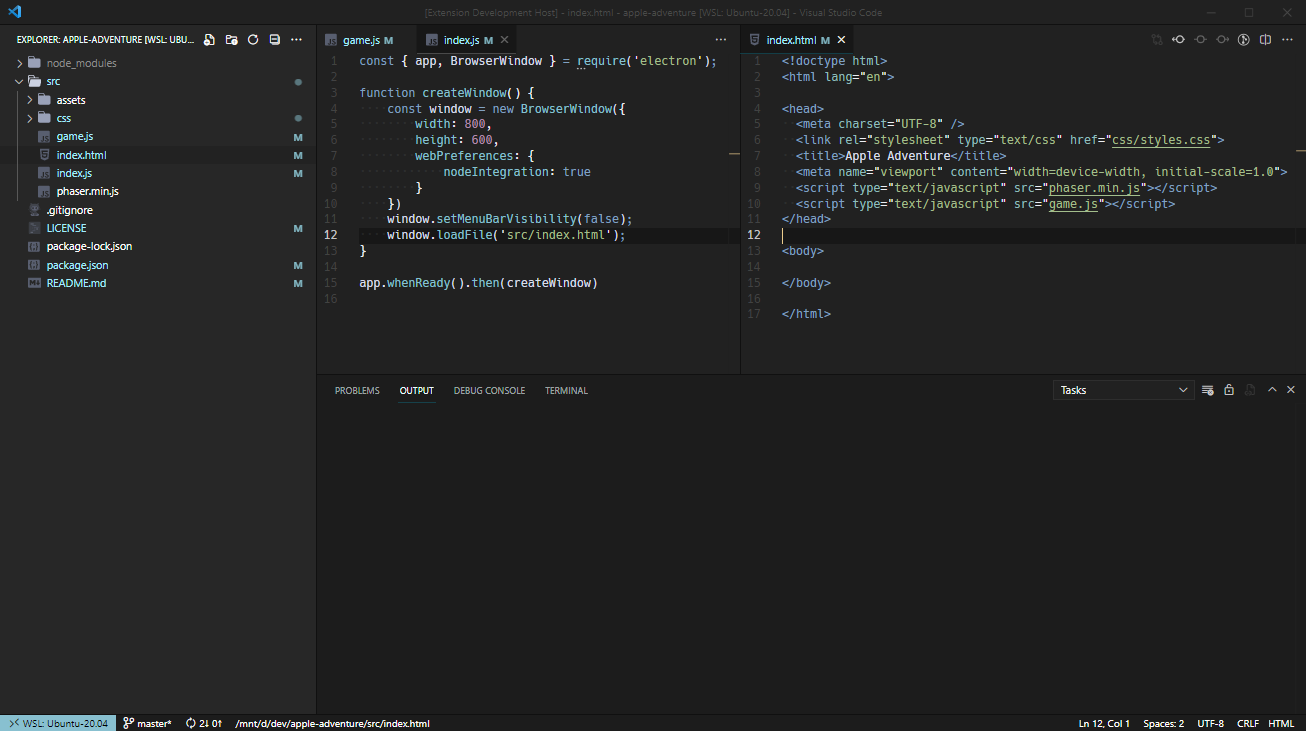
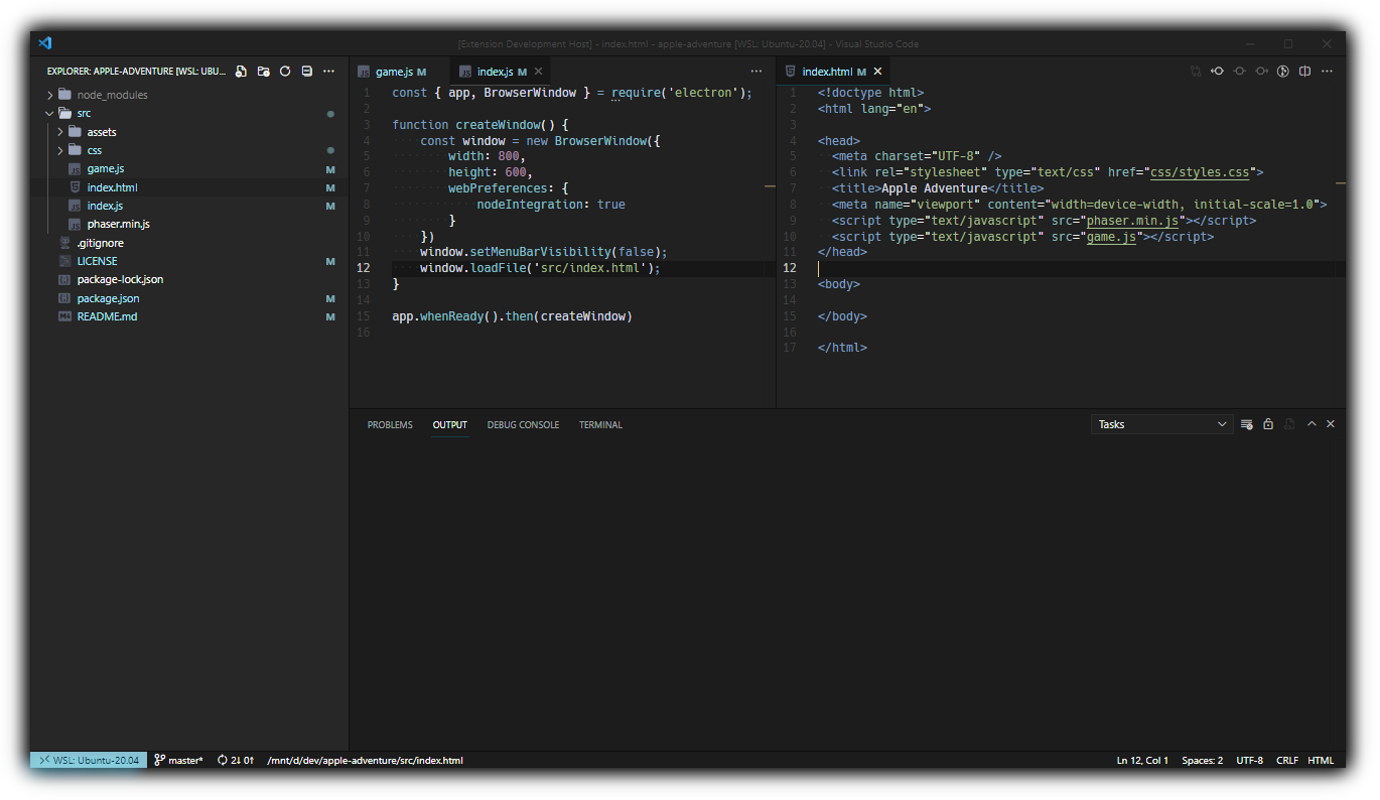
Release 0.2.1 update
Toned down difference editor colors
Toned down change indicator at the start of lines
Added LICENSE
Updated README

diff --git a/README.md b/README.md
@@ -5,27 +5,43 @@
     <div>
     A more contrast version of the <a target='_blank' href='https://marketplace.visualstudio.com/items?itemName=dnlytras.nord-wave'>Nord Wave</a> theme.
     </div>
+    <div>
+    <a><img src="https://vsmarketplacebadge.apphb.com/version-short/simojanhunen.nord-dark-contrast.svg" /></a>
+    <a><img src="https://vsmarketplacebadge.apphb.com/installs/simojanhunen.nord-dark-contrast.svg" /></a>
+    <a><img src="https://img.shields.io/badge/License-MIT-blue.svg"  /></a>
+    </div>
 </div>
 
-### Example
+# Gallery
 ![Screenshot](assets/screenshot.png)
 
-## Recommendations for used settings and extensions
+# Suggestions
 
-Install following extensions
-- [City Lights Icon package (Black & White)](https://marketplace.visualstudio.com/items?itemName=Yummygum.city-lights-icon-vsc) &#8211; A minimal black & white file icon package for minimal distractions.
-- [Fluent Icons](https://marketplace.visualstudio.com/items?itemName=miguelsolorio.fluent-icons)                                &#8211; Minimal product icons in, e.g., activity bar.
-- [Active File In StatusBar](https://marketplace.visualstudio.com/items?itemName=RoscoP.ActiveFileInStatusBar)                  &#8211; A non-distracting position to display active file path.
+### Font
+- [Hack](https://sourcefoundry.org/hack/).
 
-Add following settings to _settings.json_
-- `"workbench.activityBar.visible": false`  &#8211; Hides activity bar.
-- `"window.menuBarVisibility": "toggle"`    &#8211; Makes menu bar visible when the bound key is pressed, by default the `Alt` key.
-  - This setting will not work as intended on Linux distributions without setting `"window.titleBarStyle": "custom"`
-- `"editor.minimap.enabled": false`         &#8211; Hides the file preview from the scroll bar.
-- `"explorer.openEditors.visible": 0`       &#8211; Hides the _OPEN EDITORS_ tab from the Explorer tab.
-- `"editor.glyphMargin": false`             &#8211; Hides the glyph margin, i.e., space left of row numbers.
-- `"breadcrumbs.enabled": false`            &#8211; Hides the breadcrumbs between the editor and active tab.
-- `"editor.renderWhitespace": "boundary"`   &#8211; Adds a dot symbol for each whitespace before the first character on each line.
-- `"editor.guides.indentation": false`      &#8211; Removes verical indentation lines.
+### Extensions
+- [City Lights Icon package (Black & White)](https://marketplace.visualstudio.com/items?itemName=Yummygum.city-lights-icon-vsc).
 
-The readability could be further increased with a monospace font such as the [Hack](https://sourcefoundry.org/hack/). Install the desired font and add it to _settings.json_, e.g., `"editor.fontFamily": "Hack"`.
+### Settings
+```json
+{
+    "workbench.activityBar.visible": false,
+    "window.menuBarVisibility": "toggle",
+    "editor.minimap.enabled": false,
+    "explorer.openEditors.visible": 0,
+    "editor.glyphMargin": false,
+    "breadcrumbs.enabled": false,
+    "editor.renderWhitespace": "boundary",
+    "editor.guides.indentation": false,
+    "editor.folding": false,
+}
+```
+
+# Installation
+
+- Launch Quick Open with `Cmd+P` or `Ctrl+P`
+- Paste the command `ext install nord-dark-contrast`
+- Click __Install__ to install it
+- Click __Reload__ to reload your editor
+- Code/File ＞ Preferences ＞ Color Theme ＞ Nord Dark Contrast

diff --git a/CHANGELOG.md b/CHANGELOG.md
@@ -15,3 +15,11 @@
 ### Updated
 - README
 - Updated required vscode release
+
+## [0.2.1] - 2022-01-13
+### Updated
+- README
+- Toned down difference editor colors and indicator
+
+### Added
+- LICENSE
